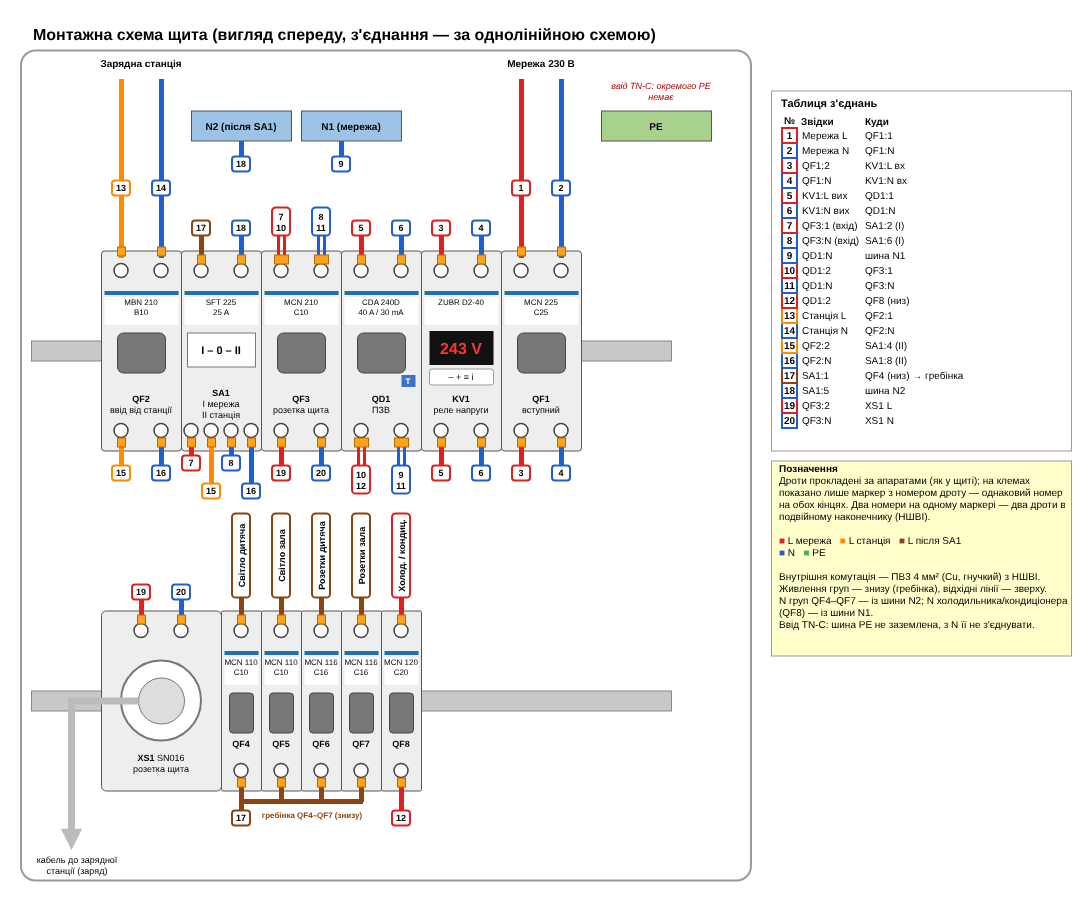
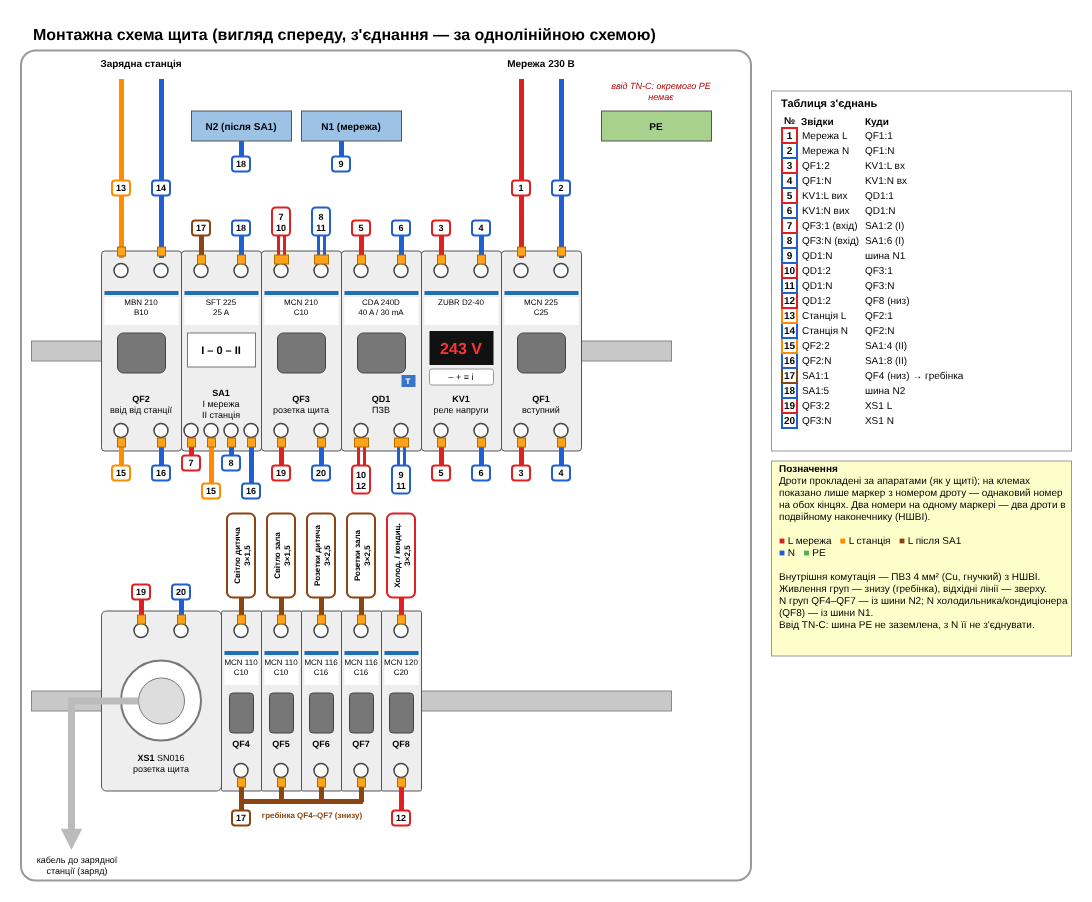
Add outgoing cable sizes (3x1.5 lighting, 3x2.5 sockets)
Claude-Session: https://claude.ai/code/session_01NfAMnHzY5E9M1jDxxPyqfB

Changed region(s): [[0.1868, 0.5588, 0.4048, 0.6829]]

diff --git a/electrical-panel/gen_drawio.py b/electrical-panel/gen_drawio.py
@@ -62,14 +62,14 @@ p.edge(qf3, xs1)
 p.edge(xs1, gen, style="dashed=1;strokeColor=#9673a6;endArrow=block;", label="заряд", pts=[(-40, 790), (660, 790), (660, 75)])
 qf8 = p.box(-270, 430, 140, 55, "<b>QF8</b> MCN 120<br>C20, 1P", MCB)
 p.edge(mbus, qf8, style="exitX=0.154;exitY=1;entryX=0.5;entryY=0;")
-l8 = p.box(-270, 520, 140, 55, "Холодильник (кухня)<br>Кондиціонер (зала)<br><i>лише від мережі</i>", "fillColor=none;")
+l8 = p.box(-270, 520, 140, 55, "Холодильник (кухня)<br>Кондиціонер (зала)<br>3×2,5, <i>лише від мережі</i>", "fillColor=none;")
 p.edge(qf8, l8)
 
 bus = p.box(60, 520, 470, 14, "шина L після SA1 (мережа або станція)", BUS)
 p.edge(sa, bus, style="exitX=0.5;exitY=1;entryX=0.617;entryY=0;")
 
-groups = [("QF4", "MCN 110", "C10", "Світло<br>дитяча"), ("QF5", "MCN 110", "C10", "Світло<br>зала"),
-          ("QF6", "MCN 116", "C16", "Розетки<br>дитяча"), ("QF7", "MCN 116", "C16", "Розетки<br>зала")]
+groups = [("QF4", "MCN 110", "C10", "Світло дитяча<br>3×1,5"), ("QF5", "MCN 110", "C10", "Світло зала<br>3×1,5"),
+          ("QF6", "MCN 116", "C16", "Розетки дитяча<br>3×2,5"), ("QF7", "MCN 116", "C16", "Розетки зала<br>3×2,5")]
 for k, (tag, model, rating, name) in enumerate(groups):
     x = 60 + k * 95
     b = p.box(x, 580, 85, 60, f"<b>{tag}</b> {model}<br>{rating}, 1P", MCB)
@@ -257,13 +257,13 @@ w.box(256, 756, 110, 16, "гребінка QF4–QF7 (знизу)", "fillColor=n
 bar_stub(340, "9", BLUE); bar_stub(240, "18", BLUE)
 
 # outgoing lines — from the upper terminals
-loads = [(240, "Світло дитяча", BRN), (280, "Світло зала", BRN),
-         (320, "Розетки дитяча", BRN), (360, "Розетки зала", BRN),
-         (400, "Холод. / кондиц.", RED)]
+loads = [(240, "Світло дитяча<br>3×1,5", BRN), (280, "Світло зала<br>3×1,5", BRN),
+         (320, "Розетки дитяча<br>3×2,5", BRN), (360, "Розетки зала<br>3×2,5", BRN),
+         (400, "Холод. / кондиц.<br>3×2,5", RED)]
 for x, text, col in loads:
     vline(x, 545, 573, col)
     ferrule(x, 564)
-    w.box(x - 9, 463, 18, 84, text, f"horizontal=0;fillColor=#ffffff;strokeColor={col};strokeWidth=2;fontSize=9;fontStyle=1;spacing=0;rounded=1;arcSize=20;")
+    w.box(x - 14, 463, 28, 84, text, f"horizontal=0;fillColor=#ffffff;strokeColor={col};strokeWidth=2;fontSize=8;fontStyle=1;spacing=0;rounded=1;arcSize=20;")
 plug = pt(70, 800)
 w.edge(sock, plug, style="edgeStyle=none;strokeColor=#bbbbbb;strokeWidth=7;endArrow=block;endFill=1;endSize=3;", pts=[(70, 650)])
 w.box(26, 800, 100, 28, "кабель до зарядної<br>станції (заряд)", "fillColor=none;strokeColor=none;fontSize=9;")
